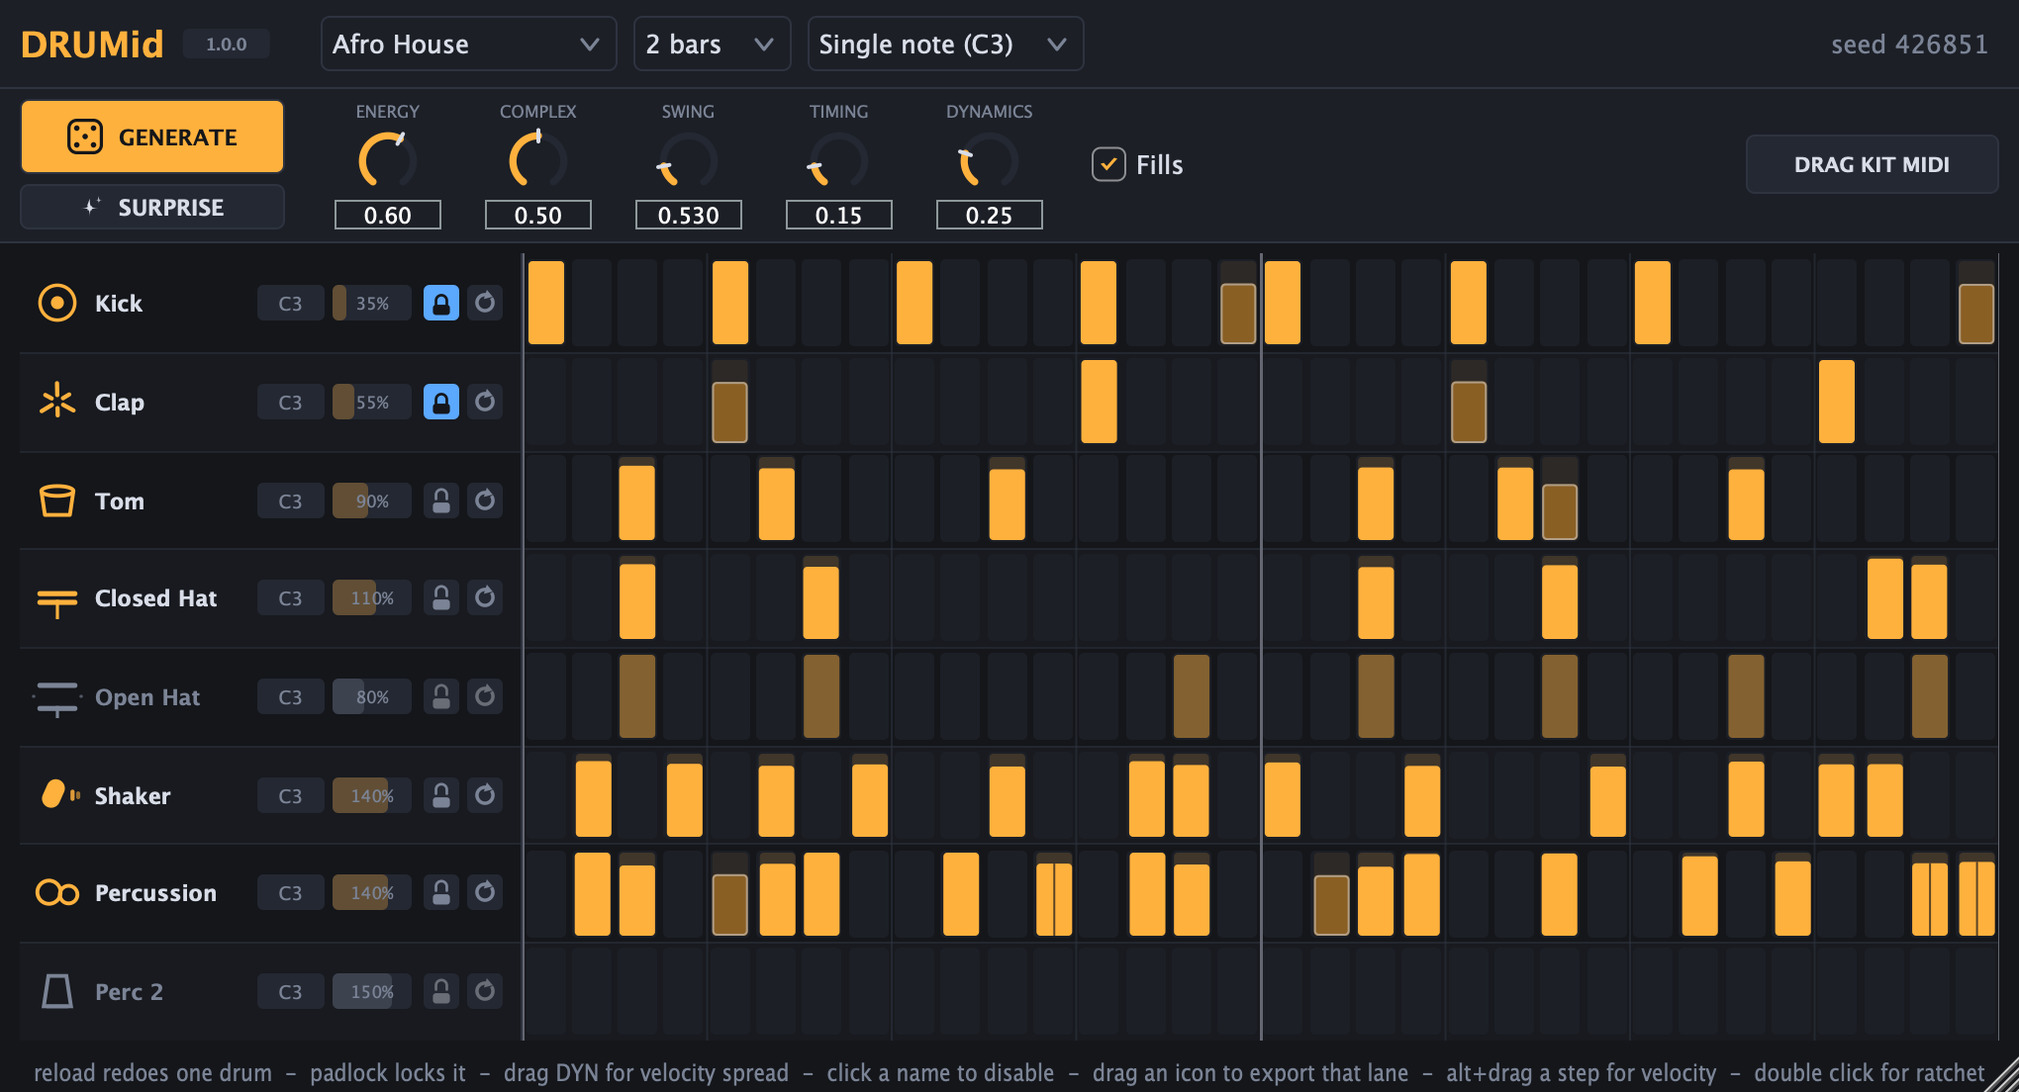
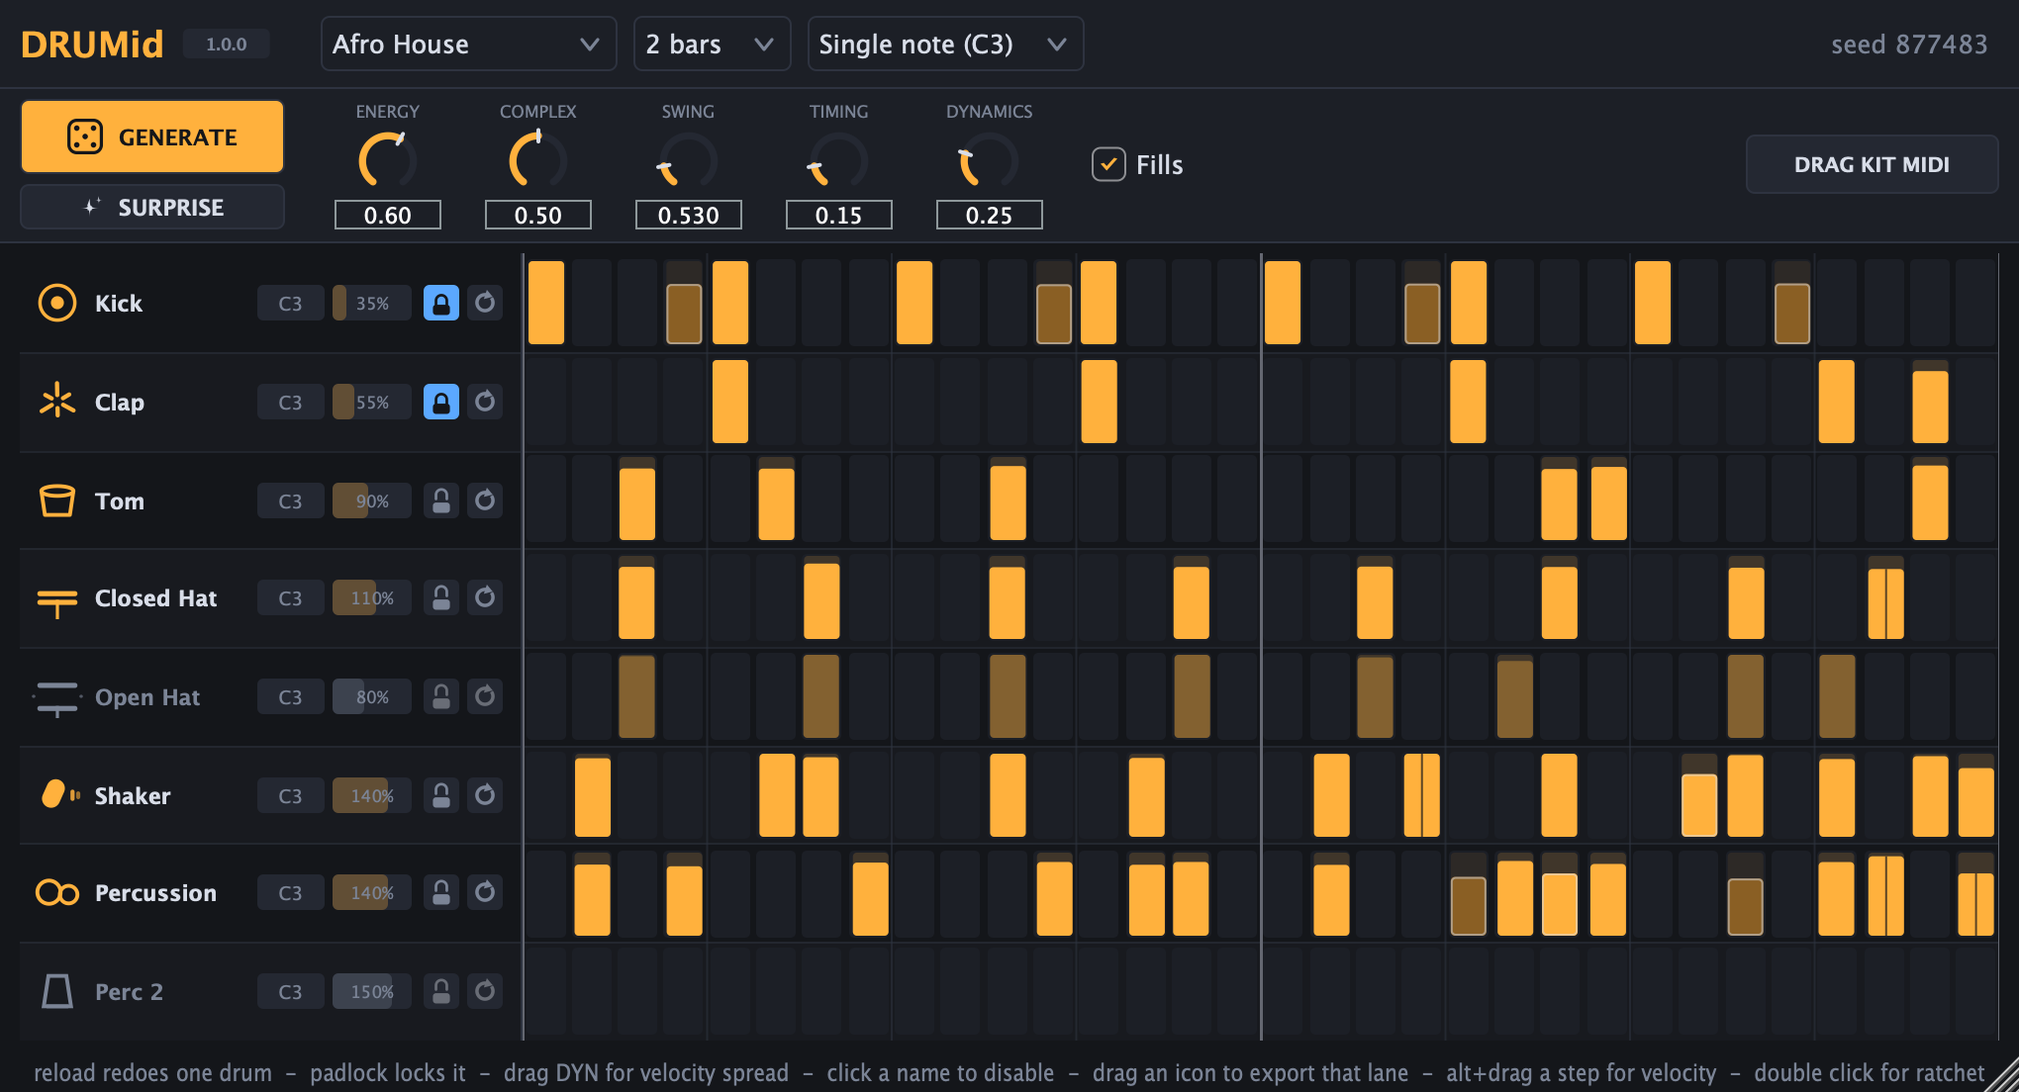
Give the tom and the open hat a phrase instead of a loop
A seed is one bar wide and gets tiled, which is right for a kick or a closed hat
- repeating is what those lanes are for. It is wrong for the tom and the open
hat, because those are the voices a drummer uses to answer the previous bar, and
tiling them is what made every genre read as a loop.

Those two now get bar-level phrasing: each bar after the first may answer with a
different figure, the same figure displaced, or the same figure with one hit
added or taken away, and the last bar of the phrase always answers. Their seed
banks roughly triple and now include two-bar seeds, which do not tile at all -
their second bar is written to differ from the first.

Phrasing runs before the compatibility pass so a re-seeded bar gets dodged around
the kick like any other. That pass then quietly undid it: in cinematic the kick
is on 1 and 3, so lifting the open hat off the kick moved both bars by the same
step and landed them back in unison - 67% of cinematic kits still had two
identical bars. A final check now runs afterwards and moves one hit only where
the answer failed, skipping steps the kick is on so the repair cannot bring back
the collision that pass just removed.

Measured across every genre, bar 2 now differs from bar 1 in at least 96% of tom
patterns and 92% of open hat patterns, up from as low as 67%. Both are pinned by
a test that reports the worst genre by name.

diff --git a/Source/Engine/PatternLibrary.cpp b/Source/Engine/PatternLibrary.cpp
@@ -370,6 +370,106 @@ static const Seed kSeeds[] =
 
     { Genre::BigRoomEDM, LaneId::Percussion2,"late tick",         "..............x.",         0.0f, 1.0f, 2.2f },
     { Genre::BigRoomEDM, LaneId::Percussion2,"mid tick",          "........x.......",         0.0f, 1.0f, 2.0f },
+
+    // ============================================================================
+    //  TOM and OPEN HAT - the answering voices
+    //
+    //  These two are where a kit stops sounding like a loop, so they get the
+    //  widest bank and several two-bar seeds. A 32-step grid does not tile: the
+    //  second bar is written to differ from the first, which is the cheapest
+    //  possible cure for the repetition that one-bar seeds cause everywhere.
+    // ============================================================================
+
+    // ---- Cinematic
+    { Genre::Cinematic, LaneId::Tom, "call and answer",   "X..X..X.........X..X..X...X.X...", 0.0f, 1.0f, 2.5f },
+    { Genre::Cinematic, LaneId::Tom, "gathering",         "X.......X.......X...X...X.X.X...", 0.3f, 1.0f, 2.2f },
+    { Genre::Cinematic, LaneId::Tom, "triplet feel",      "X..X..X..X..X...", 0.2f, 1.0f, 2.0f },
+    { Genre::Cinematic, LaneId::Tom, "far apart",         "X...........X...", 0.0f, 0.6f, 1.8f },
+    { Genre::Cinematic, LaneId::Tom, "run into the bar",  "X.......X.....x.X.......x.xxXXXX", 0.5f, 1.0f, 1.8f },
+
+    { Genre::Cinematic, LaneId::OpenHat, "swell then rest", "..............X.................", 0.0f, 1.0f, 2.0f },
+    { Genre::Cinematic, LaneId::OpenHat, "answer on 3",     "........X...............X.......", 0.0f, 1.0f, 1.8f },
+    { Genre::Cinematic, LaneId::OpenHat, "two swells",      "......X.........X...............", 0.3f, 1.0f, 1.5f },
+
+    // ---- Organic house
+    { Genre::OrganicHouse, LaneId::Tom, "call and answer", "......x...........x...x.........", 0.0f, 1.0f, 2.2f },
+    { Genre::OrganicHouse, LaneId::Tom, "walking",         "..x.......x.....x.....x.........", 0.3f, 1.0f, 2.0f },
+    { Genre::OrganicHouse, LaneId::Tom, "tresillo pair",   "x..x..x.........", 0.2f, 1.0f, 2.0f },
+    { Genre::OrganicHouse, LaneId::Tom, "late push",       "..............x.", 0.0f, 0.8f, 1.8f },
+
+    { Genre::OrganicHouse, LaneId::OpenHat, "alternating bars", "......X.................X.......", 0.0f, 1.0f, 2.2f },
+    { Genre::OrganicHouse, LaneId::OpenHat, "three then one",   "..X...X...X.......X.............", 0.3f, 1.0f, 2.0f },
+    { Genre::OrganicHouse, LaneId::OpenHat, "on the a",         "...X.......X....", 0.2f, 1.0f, 1.8f },
+    { Genre::OrganicHouse, LaneId::OpenHat, "long short",       "..X.......X...X.", 0.4f, 1.0f, 1.6f },
+
+    // ---- Afro house
+    { Genre::AfroHouse, LaneId::Tom, "djembe answer",   "..x..x....x.......x..x....x.x...", 0.0f, 1.0f, 2.2f },
+    { Genre::AfroHouse, LaneId::Tom, "climbing",        "x.....x.....x.....x...x...x.x...", 0.4f, 1.0f, 2.0f },
+    { Genre::AfroHouse, LaneId::Tom, "off the clave",   "...x..x...x.....", 0.2f, 1.0f, 2.0f },
+    { Genre::AfroHouse, LaneId::Tom, "two low hits",    "x.......x.......", 0.0f, 0.7f, 1.8f },
+
+    { Genre::AfroHouse, LaneId::OpenHat, "call and rest",  "..X...X.................X.......", 0.0f, 1.0f, 2.2f },
+    { Genre::AfroHouse, LaneId::OpenHat, "on the a",       "...X.......X....", 0.2f, 1.0f, 2.0f },
+    { Genre::AfroHouse, LaneId::OpenHat, "pairs",          "..X.X.....X.X...", 0.4f, 1.0f, 1.8f },
+    { Genre::AfroHouse, LaneId::OpenHat, "every other bar","..X...X...X...X.................", 0.3f, 1.0f, 1.8f },
+
+    // ---- Indie dance
+    { Genre::IndieDance, LaneId::Tom, "live fill",      "....x..x............x..x....x.x.", 0.0f, 1.0f, 2.2f },
+    { Genre::IndieDance, LaneId::Tom, "floor pulse",    "......x.......x.", 0.0f, 1.0f, 2.0f },
+    { Genre::IndieDance, LaneId::Tom, "answer the snare","............x..x", 0.3f, 1.0f, 1.8f },
+    { Genre::IndieDance, LaneId::Tom, "roll out",       "................x.x.x.x.x.x.xxx.", 0.5f, 1.0f, 1.6f },
+
+    { Genre::IndieDance, LaneId::OpenHat, "offbeat then rest", "..X...X...X...X.......X.........", 0.0f, 1.0f, 2.2f },
+    { Genre::IndieDance, LaneId::OpenHat, "on the a",          "...X.......X....", 0.2f, 1.0f, 1.8f },
+    { Genre::IndieDance, LaneId::OpenHat, "late pair",         "..........X...X.", 0.3f, 1.0f, 1.6f },
+
+    // ---- Melodic house
+    { Genre::MelodicHouse, LaneId::Tom, "answer",        "..........x...............x.x...", 0.0f, 1.0f, 2.2f },
+    { Genre::MelodicHouse, LaneId::Tom, "two per phrase","......x.................x.......", 0.2f, 1.0f, 2.0f },
+    { Genre::MelodicHouse, LaneId::Tom, "late push",     "..............x.", 0.0f, 1.0f, 1.8f },
+
+    { Genre::MelodicHouse, LaneId::OpenHat, "offbeat then lift", "..X...X...X...X...X...X.......X.", 0.0f, 1.0f, 2.5f },
+    { Genre::MelodicHouse, LaneId::OpenHat, "on the a",          "...X.......X....", 0.2f, 1.0f, 2.0f },
+    { Genre::MelodicHouse, LaneId::OpenHat, "drop a bar",        "..X...X...X...X.................", 0.3f, 1.0f, 1.8f },
+    { Genre::MelodicHouse, LaneId::OpenHat, "pairs",             "..X.X.....X.X...", 0.5f, 1.0f, 1.5f },
+
+    // ---- Progressive house
+    { Genre::ProgressiveHouse, LaneId::Tom, "answer",       "..........x...............x.x...", 0.0f, 1.0f, 2.2f },
+    { Genre::ProgressiveHouse, LaneId::Tom, "build out",    "................x...x...x.x.x.x.", 0.5f, 1.0f, 2.0f },
+    { Genre::ProgressiveHouse, LaneId::Tom, "syncopated",   ".....x.....x....", 0.3f, 1.0f, 1.8f },
+
+    { Genre::ProgressiveHouse, LaneId::OpenHat, "offbeat then lift", "..X...X...X...X...X...X.......X.", 0.0f, 1.0f, 2.5f },
+    { Genre::ProgressiveHouse, LaneId::OpenHat, "drop a bar",        "..X...X...X...X.................", 0.3f, 1.0f, 2.0f },
+    { Genre::ProgressiveHouse, LaneId::OpenHat, "on the a",          "...X.......X....", 0.3f, 1.0f, 1.6f },
+
+    // ---- Melodic techno
+    { Genre::MelodicTechno, LaneId::Tom, "deep answer",   "........x.......................", 0.0f, 1.0f, 2.2f },
+    { Genre::MelodicTechno, LaneId::Tom, "every other",   "x.......x.......................", 0.2f, 1.0f, 2.0f },
+    { Genre::MelodicTechno, LaneId::Tom, "late run",      "..............................x.", 0.0f, 0.8f, 1.8f },
+    { Genre::MelodicTechno, LaneId::Tom, "pulse pair",    "....x.......x...", 0.4f, 1.0f, 1.6f },
+
+    { Genre::MelodicTechno, LaneId::OpenHat, "lift each phrase", "..............X.................", 0.0f, 1.0f, 2.2f },
+    { Genre::MelodicTechno, LaneId::OpenHat, "offbeat then rest","..X...X...X...X.......X.........", 0.3f, 1.0f, 2.0f },
+    { Genre::MelodicTechno, LaneId::OpenHat, "on the a",         "...X.......X....", 0.3f, 1.0f, 1.6f },
+
+    // ---- Big room EDM
+    { Genre::BigRoomEDM, LaneId::Tom, "roll then rest", "............x.x.................", 0.0f, 1.0f, 2.2f },
+    { Genre::BigRoomEDM, LaneId::Tom, "build out",      "................x...x...x.x.xxxx", 0.5f, 1.0f, 2.0f },
+    { Genre::BigRoomEDM, LaneId::Tom, "single accent",  "..........x.....", 0.0f, 1.0f, 1.6f },
+
+    { Genre::BigRoomEDM, LaneId::OpenHat, "offbeat then lift", "..X...X...X...X...X...X.......X.", 0.0f, 1.0f, 2.2f },
+    { Genre::BigRoomEDM, LaneId::OpenHat, "lift only",         "..............X.................", 0.0f, 1.0f, 2.0f },
+    { Genre::BigRoomEDM, LaneId::OpenHat, "pairs",             "..X.X.....X.X...", 0.5f, 1.0f, 1.5f },
+
+    // ---- Techno
+    { Genre::Techno, LaneId::Tom, "rolling then rest", "x.x.x.x.x.x.x.x.................", 0.4f, 1.0f, 2.0f },
+    { Genre::Techno, LaneId::Tom, "answer",            "....x.......x...................", 0.0f, 1.0f, 2.0f },
+    { Genre::Techno, LaneId::Tom, "hypnotic pair",     "......x.......x.", 0.3f, 1.0f, 1.8f },
+    { Genre::Techno, LaneId::Tom, "late run",          "..........................x.x.x.", 0.5f, 1.0f, 1.6f },
+
+    { Genre::Techno, LaneId::OpenHat, "offbeat then rest", "..X...X...X...X.......X.........", 0.0f, 1.0f, 2.2f },
+    { Genre::Techno, LaneId::OpenHat, "lift each phrase",  "..............X.................", 0.0f, 1.0f, 2.0f },
+    { Genre::Techno, LaneId::OpenHat, "on the a",          "...X.......X....", 0.3f, 1.0f, 1.6f },
 };
 
 static constexpr int kNumSeeds = (int) (sizeof (kSeeds) / sizeof (kSeeds[0]));

diff --git a/Source/Engine/Generator.cpp b/Source/Engine/Generator.cpp
@@ -78,6 +78,108 @@ static LanePattern pickSeed (Genre genre, LaneId lane, float energy, int numStep
     return PatternLibrary::fromGrid (seeds.back()->grid, numSteps);
 }
 
+/** Bar-level phrasing for the two lanes that are supposed to answer themselves.
+
+    A seed is one bar wide and gets tiled, so a kick or a hat repeating is fine -
+    that is what those lanes do. A tom or a cymbal repeating the identical figure
+    every bar is what makes the whole kit read as a loop, because those are
+    exactly the voices a drummer uses to reply to the previous bar.
+
+    Three replies, chosen at random: a different figure entirely, the same figure
+    landing somewhere else, or the same figure with one hit added or taken away.
+*/
+static void applyPhraseVariation (LanePattern& p, LaneId lane, const GenSettings& s, Rng& rng)
+{
+    if (lane != LaneId::Tom && lane != LaneId::OpenHat)
+        return;
+
+    const int bars = p.numSteps / kStepsPerBar;
+
+    if (bars < 2)
+        return;
+
+    // Complexity decides how often the answer differs; even at zero the last bar
+    // of the phrase still gets one, or four-bar patterns crawl.
+    const float chance = 0.45f + s.complexity * 0.45f;
+
+    for (int bar = 1; bar < bars; ++bar)
+    {
+        const bool lastBar = bar == bars - 1;
+
+        if (! lastBar && ! rng.chance (chance))
+            continue;
+
+        const int off = bar * kStepsPerBar;
+
+        switch (rng.below (3))
+        {
+            case 0:
+            {
+                // A different figure. Two-bar seeds contribute either half, so
+                // the reply can come from the back end of one.
+                auto alt = pickSeed (s.genre, lane, s.energy, kStepsPerBar * 2, rng);
+                const int half = rng.below (2) * kStepsPerBar;
+
+                for (int i = 0; i < kStepsPerBar; ++i)
+                    p.steps[(size_t) (off + i)] = alt.steps[(size_t) (half + i)];
+
+                break;
+            }
+
+            case 1:
+            {
+                // The same shape, displaced. Rotating rather than shifting keeps
+                // the hit count, so the answer has the same weight as the call.
+                const int shift = 1 + rng.below (5);
+
+                std::array<Step, kStepsPerBar> src {};
+
+                for (int i = 0; i < kStepsPerBar; ++i)
+                    src[(size_t) i] = p.steps[(size_t) (off + i)];
+
+                for (int i = 0; i < kStepsPerBar; ++i)
+                    p.steps[(size_t) (off + (i + shift) % kStepsPerBar)] = src[(size_t) i];
+
+                break;
+            }
+
+            default:
+            {
+                // One hit more, or one hit fewer.
+                if (rng.chance (0.5f))
+                {
+                    for (int tries = 0; tries < 8; ++tries)
+                    {
+                        const int i = rng.below (kStepsPerBar);
+
+                        if (! p.steps[(size_t) (off + i)].on)
+                        {
+                            p.steps[(size_t) (off + i)] = Step { true, 0.6f + rng.uni() * 0.3f,
+                                                                 0.0f, 1.0f, 1 };
+                            break;
+                        }
+                    }
+                }
+                else
+                {
+                    for (int tries = 0; tries < 8; ++tries)
+                    {
+                        const int i = rng.below (kStepsPerBar);
+
+                        if (p.steps[(size_t) (off + i)].on)
+                        {
+                            p.steps[(size_t) (off + i)].clear();
+                            break;
+                        }
+                    }
+                }
+
+                break;
+            }
+        }
+    }
+}
+
 // ============================================================================
 //  Layer 2 - compatibility rules
 //
@@ -299,6 +401,69 @@ static void applyCompatibility (Kit& kit, LaneId lane, const GenSettings& s, Rng
 
         default:
             break;
+    }
+}
+
+/** Last word on the answering lanes: if a bar still matches the first one, move
+    one of its hits.
+
+    applyPhraseVariation runs before the compatibility pass so that a re-seeded
+    bar gets dodged around the kick like any other - but that pass can then undo
+    the work. In cinematic the kick is on 1 and 3, so the rule that lifts an open
+    hat off the kick moves both bars by the same step and lands them back in
+    unison. This runs afterwards and only where the answer failed.
+
+    It skips steps the kick is on, so fixing the repetition cannot reintroduce
+    the collision the compatibility pass just removed.
+*/
+static void ensureBarsAnswer (Kit& kit, LaneId lane, Rng& rng)
+{
+    if (lane != LaneId::Tom && lane != LaneId::OpenHat)
+        return;
+
+    auto& p = kit.patterns[(size_t) lane];
+    const auto& kick = kit.patterns[(size_t) LaneId::Kick];
+
+    const int bars = p.numSteps / kStepsPerBar;
+
+    for (int bar = 1; bar < bars; ++bar)
+    {
+        const int off = bar * kStepsPerBar;
+
+        bool same = true;
+
+        for (int i = 0; i < kStepsPerBar && same; ++i)
+            if (p.steps[(size_t) i].on != p.steps[(size_t) (off + i)].on)
+                same = false;
+
+        if (! same)
+            continue;
+
+        // Find a hit in this bar and walk it to a free step nearby.
+        for (int attempt = 0; attempt < kStepsPerBar; ++attempt)
+        {
+            const int from = (rng.below (kStepsPerBar) + attempt) % kStepsPerBar;
+
+            if (! p.steps[(size_t) (off + from)].on)
+                continue;
+
+            for (int delta : { 1, -1, 2, -2, 3, -3, 4 })
+            {
+                const int to = from + delta;
+
+                if (to < 0 || to >= kStepsPerBar)
+                    continue;
+
+                if (p.steps[(size_t) (off + to)].on || kick.steps[(size_t) (off + to)].on)
+                    continue;
+
+                p.steps[(size_t) (off + to)] = p.steps[(size_t) (off + from)];
+                p.steps[(size_t) (off + from)].clear();
+                break;
+            }
+
+            break;
+        }
     }
 }
 
@@ -735,7 +900,9 @@ static void buildLane (Kit& kit, LaneId lane, const GenSettings& s, int laneSeed
     kit.patterns[(size_t) idx] = p;
 
     applyDensity (kit.patterns[(size_t) idx], lane, s, rng);
+    applyPhraseVariation (kit.patterns[(size_t) idx], lane, s, rng);
     applyCompatibility (kit, lane, s, rng);
+    ensureBarsAnswer (kit, lane, rng);
     applyBarVariation (kit.patterns[(size_t) idx], lane, s, rng,
                        laneImportance (s.genre, lane) >= 1.0f);
     applyFill (kit, lane, s, rng);

diff --git a/Tests/EngineTests.cpp b/Tests/EngineTests.cpp
@@ -319,6 +319,51 @@ int main()
             check (loose > steady, "per-lane dynamics widens that element's velocity spread");
         }
 
+        // The answering lanes must actually answer. A tom or a cymbal repeating
+        // the identical bar is what makes a whole kit read as a loop.
+        {
+            auto barsDiffer = [] (Genre genre, LaneId lane)
+            {
+                int varied = 0;
+                const int runs = 24;
+
+                for (int t = 0; t < runs; ++t)
+                {
+                    const auto kit = makeKit (genre, 0.6f, 0.5f, 3000 + t, 2);
+                    const auto& p = kit.patterns[(size_t) lane];
+
+                    if (p.hitCount() == 0)
+                        continue;
+
+                    for (int i = 0; i < kStepsPerBar; ++i)
+                        if (p.steps[(size_t) i].on != p.steps[(size_t) (i + kStepsPerBar)].on)
+                        { ++varied; break; }
+                }
+
+                return (float) varied / (float) runs;
+            };
+
+            float worstTom = 1.0f, worstHat = 1.0f;
+            const char* worstTomName = "";
+            const char* worstHatName = "";
+
+            for (auto g : kGenreOrder)
+            {
+                const float tom = barsDiffer (g, LaneId::Tom);
+                const float hat = barsDiffer (g, LaneId::OpenHat);
+
+                if (tom < worstTom) { worstTom = tom; worstTomName = genreName (g); }
+                if (hat < worstHat) { worstHat = hat; worstHatName = genreName (g); }
+            }
+
+            std::printf ("       bar 2 answers bar 1 - worst tom: %.0f%% (%s), "
+                         "worst open hat: %.0f%% (%s)\n",
+                         worstTom * 100.0f, worstTomName, worstHat * 100.0f, worstHatName);
+
+            check (worstTom > 0.7f, "the tom answers itself in every genre");
+            check (worstHat > 0.7f, "the open hat answers itself in every genre");
+        }
+
         // Swing has to be real micro-timing, not a quantised lie.
         float maxMicro = 0.0f;
 

diff --git a/README.md b/README.md
@@ -17,7 +17,7 @@ Phase 1 (vertical slice) — plugin loads, generates, plays in sync and exports.
 | Formats | VST3 — one bundle carrying macOS (arm64 + x86_64) and Windows x64 |
 | Lanes | Kick, Clap, Tom, Closed Hat, Open Hat, Shaker, Percussion, Perc 2 |
 | Genres | Cinematic, Organic House, Afro House, Indie Dance, Melodic House, Progressive House, Melodic Techno, Big Room EDM, Techno |
-| Seed bank | 220 curated patterns |
+| Seed bank | 284 curated patterns |
 | Pattern length | 1, 2 or 4 bars |
 
 ![Afro House](docs/drumid-afro-house.png)
@@ -142,6 +142,28 @@ gets repetitive:
 3. **Variation** — swing as real micro-timing, humanize, probability on ghost
    notes, 32nd ratchets, bar-to-bar mutation so 2 and 4 bar patterns don't read
    as a 1-bar loop, and end-of-phrase fills.
+
+### Phrasing: the answering lanes
+
+A seed is one bar wide and gets tiled, which is fine for a kick or a closed hat —
+repeating is what those lanes are *for*. It is not fine for the tom and the open
+hat, because those are exactly the voices a drummer uses to reply to the previous
+bar, and tiling them is what makes a whole kit read as a loop.
+
+So those two get bar-level phrasing on top of everything else. Each bar after the
+first may answer with a different figure, the same figure displaced, or the same
+figure with one hit added or taken away — and the last bar of the phrase always
+answers. They also have the widest seed banks, including two-bar seeds, which do
+not tile at all: their second bar is written to differ from the first.
+
+One catch worth knowing about, because it silently undid the whole thing at
+first: phrasing runs *before* the compatibility pass, so a re-seeded bar gets
+dodged around the kick like any other. But that pass can then re-align the bars —
+in cinematic the kick is on 1 and 3, so lifting the open hat off the kick moved
+both bars by the same step and landed them back in unison. A final check runs
+afterwards and moves one hit where the answer failed, skipping steps the kick is
+on so the fix cannot reintroduce the collision. Across every genre, bar 2 now
+differs from bar 1 in at least 92% of generated kits.
 
 Energy is a **shared budget across the kit**, not a per-lane setting. Without
 that, every colour lane independently answers "how busy should I be?" and at
